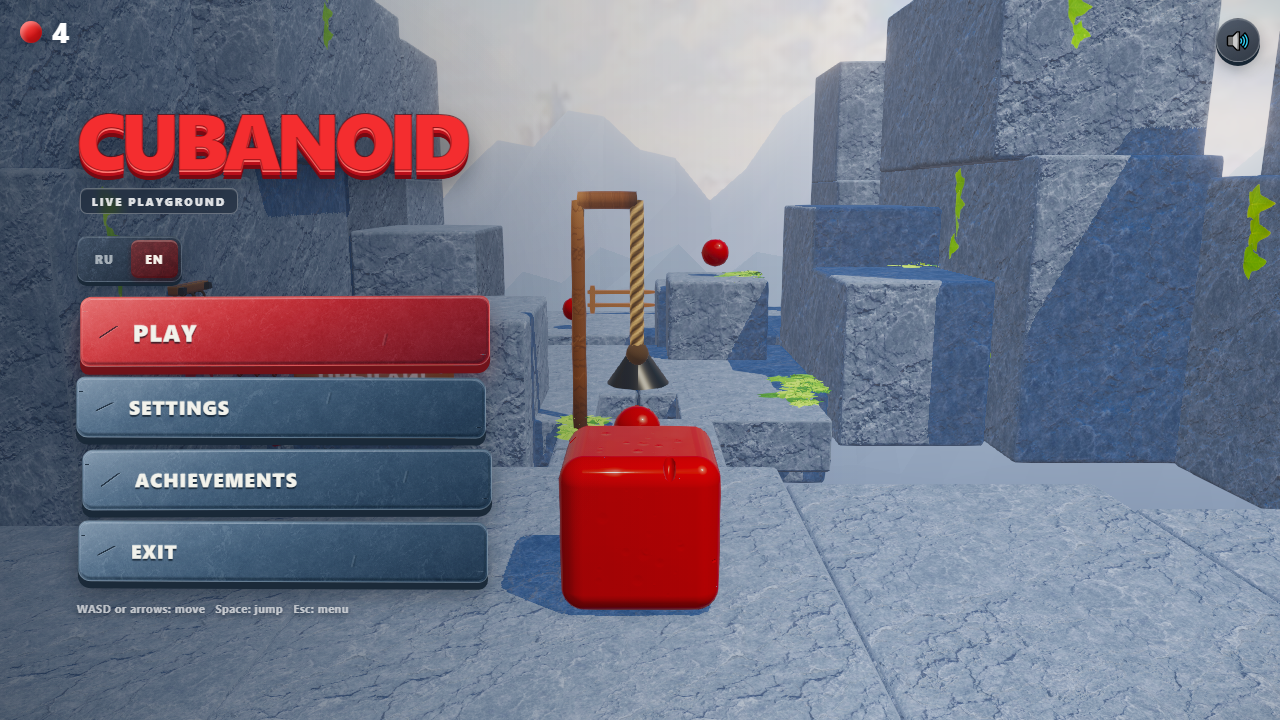
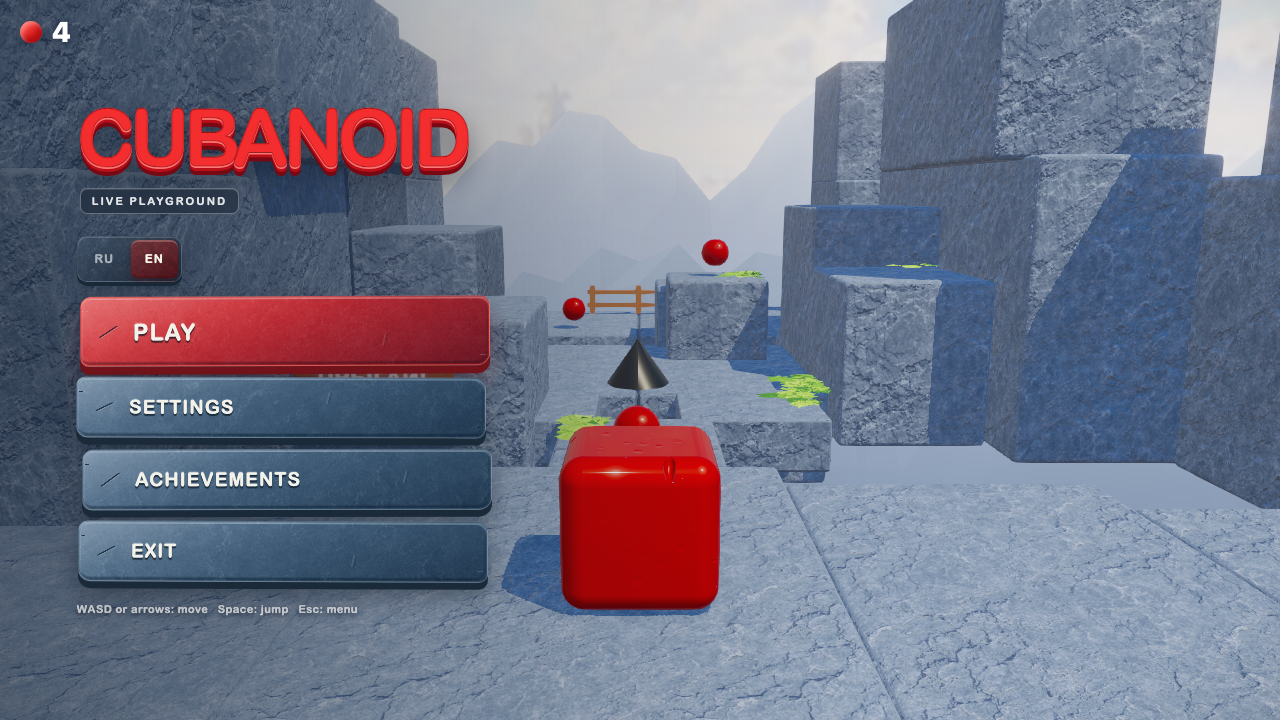
fix: сроки в статьях приведены к тому, что показывают коммиты
В седьмой статье было написано «месяц назад» и «полгода не мог назвать» - я это выдумал. По git: репозиторий создан 25.08 вечером, мультяшный вид 26.08, PBR-камень 27.08, панорама с горами 29.08 ночью. То есть весь путь - четыре дня, а описанное превращение - три вечера. Заголовок и вступление переписаны под факт, он сильнее выдумки.

Во второй статье фраза «через два дня выяснится, что движок видит эти швы» тоже неверна: мердж коллайдеров лёг 26.08 в 11:32, то есть за пять часов ДО того кадра. Переформулировано.

diff --git a/landing-root/plans/cubanoid-articles/07.html b/landing-root/plans/cubanoid-articles/07.html
@@ -5,7 +5,7 @@
 <meta name="viewport" content="width=device-width, initial-scale=1">
 <meta name="robots" content="noindex, nofollow">
 <link rel="icon" href="data:,">
-<title>Мультяшные кубики превратились в скалы над морем облаков. Рассказываю, что для этого пришлось сломать</title>
+<title>За три вечера мультяшные кубики стали скалами над морем облаков. Рассказываю, что для этого пришлось сломать</title>
 <style>
 :root{
   --page:#090d14; --surface:#111823; --surface-soft:#0c1119; --sidebar:#0d121b;
@@ -86,16 +86,16 @@ figcaption{color:var(--faint);font-size:.85rem;margin-top:.5rem}
 </head>
 <body>
 <div class="top"><a class="pill" href="./">← Все статьи</a><button class="pill" type="button" data-copy="raw">Скопировать markdown</button><a class="pill" href="https://habr.com/ru/publication/new/" target="_blank" rel="noopener">Редактор Хабра ↗</a><span class="top__spacer"></span><span class="top__tag">Визуал</span></div>
-<main><h1>Мультяшные кубики превратились в скалы над морем облаков. Рассказываю, что для этого пришлось сломать</h1>
+<main><h1>За три вечера мультяшные кубики стали скалами над морем облаков. Рассказываю, что для этого пришлось сломать</h1>
 
-<p>Месяц назад моя игра выглядела как набор зелёных плиток с красным кубиком. Сейчас это каменные утёсы, парящие над облаками, с потёртыми кромками, мхом в трещинах и горами на горизонте.</p>
+<p>Игре четыре дня. Ещё три вечера назад она выглядела как набор зелёных плиток с красным кубиком - сейчас это каменные утёсы, парящие над облаками, с потёртыми кромками, мхом в трещинах и горами на горизонте.</p>
 <p>Между этими состояниями - десяток попыток, из которых половина оказалась неправильной, а одна дорогая фича в итоге была почти выключена. Об этом и расскажу: не про то, как надо, а про то, что реально произошло.</p>
 <figure class="shot"><img src="img/now-menu.jpg" alt="Текущее состояние" loading="lazy"><figcaption>Вот сюда пришли. Дальше - как.</figcaption></figure>
-<nav class="toc"><p>Оглавление</p><ol><li><a href="#problem">Проблема, которую я полгода не мог назвать</a></li><li><a href="#stone">Камень: одна текстура против трёх</a></li><li><a href="#sameness">Главный убийца реализма - одинаковость</a></li><li><a href="#cube">Куб: как я сделал его стеклянным и почти всё откатил</a></li><li><a href="#glint">Почему бликов должно быть два</a></li><li><a href="#background">Фон: одна картинка работает дважды</a></li><li><a href="#mountains">Горы не бывают из конусов</a></li><li><a href="#result">Что всё это дало вместе</a></li></ol></nav>
-<h2 id="problem">Проблема, которую я полгода не мог назвать</h2>
+<nav class="toc"><p>Оглавление</p><ol><li><a href="#problem">Проблема, которую я не мог сформулировать</a></li><li><a href="#stone">Камень: одна текстура против трёх</a></li><li><a href="#sameness">Главный убийца реализма - одинаковость</a></li><li><a href="#cube">Куб: как я сделал его стеклянным и почти всё откатил</a></li><li><a href="#glint">Почему бликов должно быть два</a></li><li><a href="#background">Фон: одна картинка работает дважды</a></li><li><a href="#mountains">Горы не бывают из конусов</a></li><li><a href="#result">Что всё это дало вместе</a></li></ol></nav>
+<h2 id="problem">Проблема, которую я не мог сформулировать</h2>
 <figure class="shot"><img src="img/step4-cartoon.jpg" alt="Как было" loading="lazy"><figcaption>Всё на месте: трава, камень, тени, туман. И всё равно игрушечно.</figcaption></figure>
 <p>Вот кадр «до». Посмотрите на него внимательно - там нет очевидных ошибок. Трава есть, камень есть, тени работают, освещение стоит. Но выглядит как пластиковый конструктор, и это чувствуется мгновенно, ещё до того, как успеваешь понять почему.</p>
-<p>Я довольно долго тыкал в отдельные параметры: подкручивал цвет, добавлял яркости, двигал источник света. Помогало плохо, потому что дело было не в них.</p>
+<p>Целый вечер я тыкал в отдельные параметры: подкручивал цвет, добавлял яркости, двигал источник света. Помогало плохо, потому что дело было не в них.</p>
 <p>Настоящая причина простая и обидная: <strong>в этом кадре всё однородно</strong>. Каждая плитка похожа на соседнюю. Каждая поверхность одинаково гладкая. Свет ровный. За краем мира - пустота. Реальный мир так не выглядит нигде и никогда, и глаз это ловит быстрее, чем вы успеваете сформулировать претензию.</p>
 <p>Дальше - пять вещей, которыми я эту однородность убивал.</p>
 <h2 id="stone">Камень: одна текстура против трёх</h2>
@@ -114,9 +114,9 @@ figcaption{color:var(--faint);font-size:.85rem;margin-top:.5rem}
 <h2 id="cube">Куб: как я сделал его стеклянным и почти всё откатил</h2>
 <p>Вот тут самая честная часть статьи.</p>
 <figure class="shot"><img src="img/07-cube-closeup.jpg" alt="Куб крупным планом" loading="lazy"><figcaption>Полтора десятка параметров ради одного красного кубика. Оно того стоило, но не так, как я думал.</figcaption></figure>
-<p>Куб - единственный по-настоящему яркий объект в кадре, и на него ушло больше всего времени. Я хотел желе: полупрозрачное, с глубоким внутренним цветом, чтобы свет проходил сквозь толщу и окрашивался.</p>
+<p>Куб - единственный по-настоящему яркий объект в кадре, и на него ушло больше всего коммитов: почти весь третий день я занимался одним кубиком. Я хотел желе: полупрозрачное, с глубоким внутренним цветом, чтобы свет проходил сквозь толщу и окрашивался.</p>
 <p>Three.js такое умеет - параметр <code>transmission</code>, физически корректное просвечивание с преломлением. Дорогая штука: движок рендерит сцену за объектом отдельным проходом. Я его включил на 45%, получил желе и целую серию проблем: куб терял силуэт на светлом камне, теневая сторона уходила в чёрный, а на слабых машинах всё это заметно проседало.</p>
-<p>Потратив на отладку прилично времени, я в итоге <strong>опустил transmission до 12%</strong>.</p>
+<p>Потратив на отладку почти день, я в итоге <strong>опустил transmission до 12%</strong>.</p>
 <p>То есть почти выключил фичу, ради которой всё затевалось.</p>
 <p>И картинка стала лучше. Потому что нужного эффекта добились три вещи попроще:</p>
 <ul><li><strong>глубокий тёмный красный</strong> в основе вместо весёлого алого - цвет перестал выглядеть пластмассовым;</li><li><strong>подсветка «мякоти» по краям</strong> - там, где мы смотрим на поверхность вскользь, куб чуть светится изнутри. Это дешёвый трюк, который читается именно как «внутри что-то есть»;</li><li><strong>вмятины</strong> на поверхности - не идеально гладкий, а слегка мятый, как настоящая мармеладка.</li></ul>
@@ -149,11 +149,11 @@ figcaption{color:var(--faint);font-size:.85rem;margin-top:.5rem}
 <p><strong>Физическая корректность не равна красоте.</strong> Дорогая фича, которую я почти выключил, - лучшее тому доказательство.</p>
 <p><strong>Мир должен продолжаться за краем уровня.</strong> Панорама и горы сделали для ощущения места больше, чем все материалы вместе взятые.</p>
 <p>А у вас какая правка неожиданно вытянула картинку сильнее всего? Подозреваю, что у многих это тоже оказался не шейдер.</p></main>
-<script type="text/plain" id="raw"># Мультяшные кубики превратились в скалы над морем облаков. Рассказываю, что для этого пришлось сломать
+<script type="text/plain" id="raw"># За три вечера мультяшные кубики стали скалами над морем облаков. Рассказываю, что для этого пришлось сломать
 
-Месяц назад моя игра выглядела как набор зелёных плиток с красным кубиком. Сейчас
-это каменные утёсы, парящие над облаками, с потёртыми кромками, мхом в трещинах и
-горами на горизонте.
+Игре четыре дня. Ещё три вечера назад она выглядела как набор зелёных плиток с
+красным кубиком - сейчас это каменные утёсы, парящие над облаками, с потёртыми
+кромками, мхом в трещинах и горами на горизонте.
 
 Между этими состояниями - десяток попыток, из которых половина оказалась
 неправильной, а одна дорогая фича в итоге была почти выключена. Об этом и
@@ -164,7 +164,7 @@ figcaption{color:var(--faint);font-size:.85rem;margin-top:.5rem}
 
 Оглавление
 
-1. [Проблема, которую я полгода не мог назвать](#problem)
+1. [Проблема, которую я не мог сформулировать](#problem)
 2. [Камень: одна текстура против трёх](#stone)
 3. [Главный убийца реализма - одинаковость](#sameness)
 4. [Куб: как я сделал его стеклянным и почти всё откатил](#cube)
@@ -173,7 +173,7 @@ figcaption{color:var(--faint);font-size:.85rem;margin-top:.5rem}
 7. [Горы не бывают из конусов](#mountains)
 8. [Что всё это дало вместе](#result)
 
-## Проблема, которую я полгода не мог назвать {#problem}
+## Проблема, которую я не мог сформулировать {#problem}
 
 ![Как было](IMG:07-before)
 *Всё на месте: трава, камень, тени, туман. И всё равно игрушечно.*
@@ -183,7 +183,7 @@ figcaption{color:var(--faint);font-size:.85rem;margin-top:.5rem}
 конструктор, и это чувствуется мгновенно, ещё до того, как успеваешь понять
 почему.
 
-Я довольно долго тыкал в отдельные параметры: подкручивал цвет, добавлял яркости,
+Целый вечер я тыкал в отдельные параметры: подкручивал цвет, добавлял яркости,
 двигал источник света. Помогало плохо, потому что дело было не в них.
 
 Настоящая причина простая и обидная: **в этом кадре всё однородно**. Каждая
@@ -244,7 +244,7 @@ figcaption{color:var(--faint);font-size:.85rem;margin-top:.5rem}
 *Полтора десятка параметров ради одного красного кубика. Оно того стоило, но не так, как я думал.*
 
 Куб - единственный по-настоящему яркий объект в кадре, и на него ушло больше
-всего времени. Я хотел желе: полупрозрачное, с глубоким внутренним цветом, чтобы
+всего коммитов: почти весь третий день я занимался одним кубиком. Я хотел желе: полупрозрачное, с глубоким внутренним цветом, чтобы
 свет проходил сквозь толщу и окрашивался.
 
 Three.js такое умеет - параметр `transmission`, физически корректное
@@ -253,7 +253,7 @@ Three.js такое умеет - параметр `transmission`, физичес
 куб терял силуэт на светлом камне, теневая сторона уходила в чёрный, а на слабых
 машинах всё это заметно проседало.
 
-Потратив на отладку прилично времени, я в итоге **опустил transmission до 12%**.
+Потратив на отладку почти день, я в итоге **опустил transmission до 12%**.
 
 То есть почти выключил фичу, ради которой всё затевалось.
 

diff --git a/landing-root/plans/cubanoid-articles/index.html b/landing-root/plans/cubanoid-articles/index.html
@@ -86,7 +86,7 @@ figcaption{color:var(--faint);font-size:.85rem;margin-top:.5rem}
 </head>
 <body>
 <div class="top"><a class="pill" href="/plans/project-promotion-map/index.html?project=cubanoid">← К карте плана</a><a class="pill" href="https://habr.com/ru/publication/new/" target="_blank" rel="noopener">Редактор Хабра ↗</a><span class="top__spacer"></span><span class="top__tag">Cubanoid · черновики</span></div>
-<main><h1>Статьи для публикации</h1><div class="note">Пять независимых текстов - выкладывать можно в любом порядке и в разные дни. Внутри каждого есть кнопка <b>«Скопировать markdown»</b>: жмёте, открываете редактор Хабра, вставляете. Картинки перетаскиваются в редактор отдельно - в тексте помечено, где именно.</div><div class="cards"><a class="card" href="01.html"><span class="card__no">01 · Геймдизайн</span><span class="card__name">У моего героя нет здоровья, ключей и очков. Есть масса, и это всё сразу</span><span class="card__note">Одна величина вместо здоровья, ключей и очков</span><span class="card__meta">картинки на месте</span></a><a class="card" href="02.html"><span class="card__no">02 · Хроника</span><span class="card__name">Пять скриншотов моей игры. Первый снят на телефон, потому что скриншотить я не догадался</span><span class="card__note">Пять кадров: от красного ящика до желейного куба</span><span class="card__meta">картинки на месте</span></a><a class="card" href="03.html"><span class="card__no">03 · Физика</span><span class="card__name">Мой куб спотыкался на идеально ровном полу. Пол был не виноват</span><span class="card__note">Ghost collisions и жадный мердж коллайдеров</span><span class="card__meta">картинки на месте</span></a><a class="card" href="04.html"><span class="card__no">04 · Архитектура</span><span class="card__name">Я написал игру так, что её правила не знают про Three.js. Объясняю зачем</span><span class="card__note">Ports &amp; adapters и детерминированные e2e</span><span class="card__meta">картинки на месте</span></a><a class="card" href="05.html"><span class="card__no">05 · Рендер</span><span class="card__name">«На кубе какие-то чёрные тени». Я полез читать шейдеры Three.js, и тени были ни при чём</span><span class="card__note">Transmission, «чёрные тени» и squash &amp; stretch</span><span class="card__meta">картинки на месте</span></a><a class="card" href="06.html"><span class="card__no">06 · Практика</span><span class="card__name">Картинку в моей игре вытянули не шейдеры. Самой полезной правкой оказались две строки конфига</span><span class="card__note">Пять дешёвых правок, которые дали больше шейдеров</span><span class="card__meta">картинки на месте</span></a><a class="card" href="07.html"><span class="card__no">07 · Визуал</span><span class="card__name">Мультяшные кубики превратились в скалы над морем облаков. Рассказываю, что для этого пришлось сломать</span><span class="card__note">Как плоские кубики превратились в скалы над морем облаков</span><span class="card__meta">картинки на месте</span></a></div><h2>Порядок, который я бы взял</h2><ol><li><b>02</b> - визуальная хроника: легко читается, много картинок, собирает аудиторию на остальные.</li><li><b>01</b> - геймдизайн: объясняет, во что вообще играют.</li><li><b>03</b> - физика: первая тяжёлая техническая, такое сохраняют в закладки.</li><li><b>05</b> - рендер: разбор багов с чтением шейдеров.</li><li><b>04</b> - архитектура: самая нишевая, лучше идёт последней.</li></ol><h2>Перед публикацией</h2><ul><li>В настройках Хабра обязательное поле <b>«Целевая аудитория»</b> - «Фронтенд». Без него черновик не сохраняется.</li><li>Хаб: <b>«Разработка игр»</b>. Ключевые слова вводятся по одному через Enter.</li><li>Ссылки на репозиторий в текстах нет - только фрагменты кода и ссылка на играбельную сборку.</li></ul></main>
+<main><h1>Статьи для публикации</h1><div class="note">Пять независимых текстов - выкладывать можно в любом порядке и в разные дни. Внутри каждого есть кнопка <b>«Скопировать markdown»</b>: жмёте, открываете редактор Хабра, вставляете. Картинки перетаскиваются в редактор отдельно - в тексте помечено, где именно.</div><div class="cards"><a class="card" href="01.html"><span class="card__no">01 · Геймдизайн</span><span class="card__name">У моего героя нет здоровья, ключей и очков. Есть масса, и это всё сразу</span><span class="card__note">Одна величина вместо здоровья, ключей и очков</span><span class="card__meta">картинки на месте</span></a><a class="card" href="02.html"><span class="card__no">02 · Хроника</span><span class="card__name">Пять скриншотов моей игры. Первый снят на телефон, потому что скриншотить я не догадался</span><span class="card__note">Пять кадров: от красного ящика до желейного куба</span><span class="card__meta">картинки на месте</span></a><a class="card" href="03.html"><span class="card__no">03 · Физика</span><span class="card__name">Мой куб спотыкался на идеально ровном полу. Пол был не виноват</span><span class="card__note">Ghost collisions и жадный мердж коллайдеров</span><span class="card__meta">картинки на месте</span></a><a class="card" href="04.html"><span class="card__no">04 · Архитектура</span><span class="card__name">Я написал игру так, что её правила не знают про Three.js. Объясняю зачем</span><span class="card__note">Ports &amp; adapters и детерминированные e2e</span><span class="card__meta">картинки на месте</span></a><a class="card" href="05.html"><span class="card__no">05 · Рендер</span><span class="card__name">«На кубе какие-то чёрные тени». Я полез читать шейдеры Three.js, и тени были ни при чём</span><span class="card__note">Transmission, «чёрные тени» и squash &amp; stretch</span><span class="card__meta">картинки на месте</span></a><a class="card" href="06.html"><span class="card__no">06 · Практика</span><span class="card__name">Картинку в моей игре вытянули не шейдеры. Самой полезной правкой оказались две строки конфига</span><span class="card__note">Пять дешёвых правок, которые дали больше шейдеров</span><span class="card__meta">картинки на месте</span></a><a class="card" href="07.html"><span class="card__no">07 · Визуал</span><span class="card__name">За три вечера мультяшные кубики стали скалами над морем облаков. Рассказываю, что для этого пришлось сломать</span><span class="card__note">Как плоские кубики превратились в скалы над морем облаков</span><span class="card__meta">картинки на месте</span></a></div><h2>Порядок, который я бы взял</h2><ol><li><b>02</b> - визуальная хроника: легко читается, много картинок, собирает аудиторию на остальные.</li><li><b>01</b> - геймдизайн: объясняет, во что вообще играют.</li><li><b>03</b> - физика: первая тяжёлая техническая, такое сохраняют в закладки.</li><li><b>05</b> - рендер: разбор багов с чтением шейдеров.</li><li><b>04</b> - архитектура: самая нишевая, лучше идёт последней.</li></ol><h2>Перед публикацией</h2><ul><li>В настройках Хабра обязательное поле <b>«Целевая аудитория»</b> - «Фронтенд». Без него черновик не сохраняется.</li><li>Хаб: <b>«Разработка игр»</b>. Ключевые слова вводятся по одному через Enter.</li><li>Ссылки на репозиторий в текстах нет - только фрагменты кода и ссылка на играбельную сборку.</li></ul></main>
 <script>
 document.querySelectorAll('[data-copy]').forEach(function (btn) {
   btn.addEventListener('click', function () {

diff --git a/landing-root/plans/cubanoid-articles/02.html b/landing-root/plans/cubanoid-articles/02.html
@@ -102,7 +102,7 @@ figcaption{color:var(--faint);font-size:.85rem;margin-top:.5rem}
 <h2>Шаг 3. Небо, отражающееся в полу</h2>
 <figure class="shot"><img src="img/step3-water-sky.jpg" alt="Отражения в полу" loading="lazy"><figcaption>Тот момент, когда подключаешь окружение и забываешь его настроить.</figcaption></figure>
 <p>Здесь я подключил окружение как источник освещения - и получил зеркало. Внизу кадра прекрасно видно облака, отражающиеся в траве. Это не задумка, это дефолтные настройки, которые я поленился тронуть.</p>
-<p>Ещё на этом кадре видно то, что меня потом укусит: <strong>белые швы между плитками</strong>. Каждый тайл - отдельный объект, и границы между ними видны невооружённым глазом. Через два дня выяснится, что физический движок эти границы тоже прекрасно видит, и куб начнёт о них спотыкаться. Но это уже другая история.</p>
+<p>Ещё на этом кадре видны <strong>белые швы между плитками</strong>. Каждый тайл - отдельный объект, и границы между ними заметны невооружённым глазом. Физический движок, как выяснилось тем же утром, видит их не хуже вас: куб об эти швы спотыкался. Но это уже отдельная история.</p>
 <p>Плюс соседние тайлы идентичны до пикселя. Глаз моментально считывает такое как «сетка», а не как «мир».</p>
 <h2>Шаг 4. Мультяшная трава и таблички</h2>
 <figure class="shot"><img src="img/step4-cartoon.jpg" alt="Мультяшный этап" loading="lazy"><figcaption>Появились подсказки прямо в мире. «ПРЫГАЙ!» - это, если что, обучение.</figcaption></figure>
@@ -190,10 +190,10 @@ cameraLookAhead: { y: 0.35, z: -1.6 },</code></pre>
 Внизу кадра прекрасно видно облака, отражающиеся в траве. Это не задумка, это
 дефолтные настройки, которые я поленился тронуть.
 
-Ещё на этом кадре видно то, что меня потом укусит: **белые швы между плитками**.
-Каждый тайл - отдельный объект, и границы между ними видны невооружённым глазом.
-Через два дня выяснится, что физический движок эти границы тоже прекрасно видит,
-и куб начнёт о них спотыкаться. Но это уже другая история.
+Ещё на этом кадре видны **белые швы между плитками**. Каждый тайл - отдельный
+объект, и границы между ними заметны невооружённым глазом. Физический движок,
+как выяснилось тем же утром, видит их не хуже вас: куб об эти швы спотыкался.
+Но это уже отдельная история.
 
 Плюс соседние тайлы идентичны до пикселя. Глаз моментально считывает такое как
 «сетка», а не как «мир».
